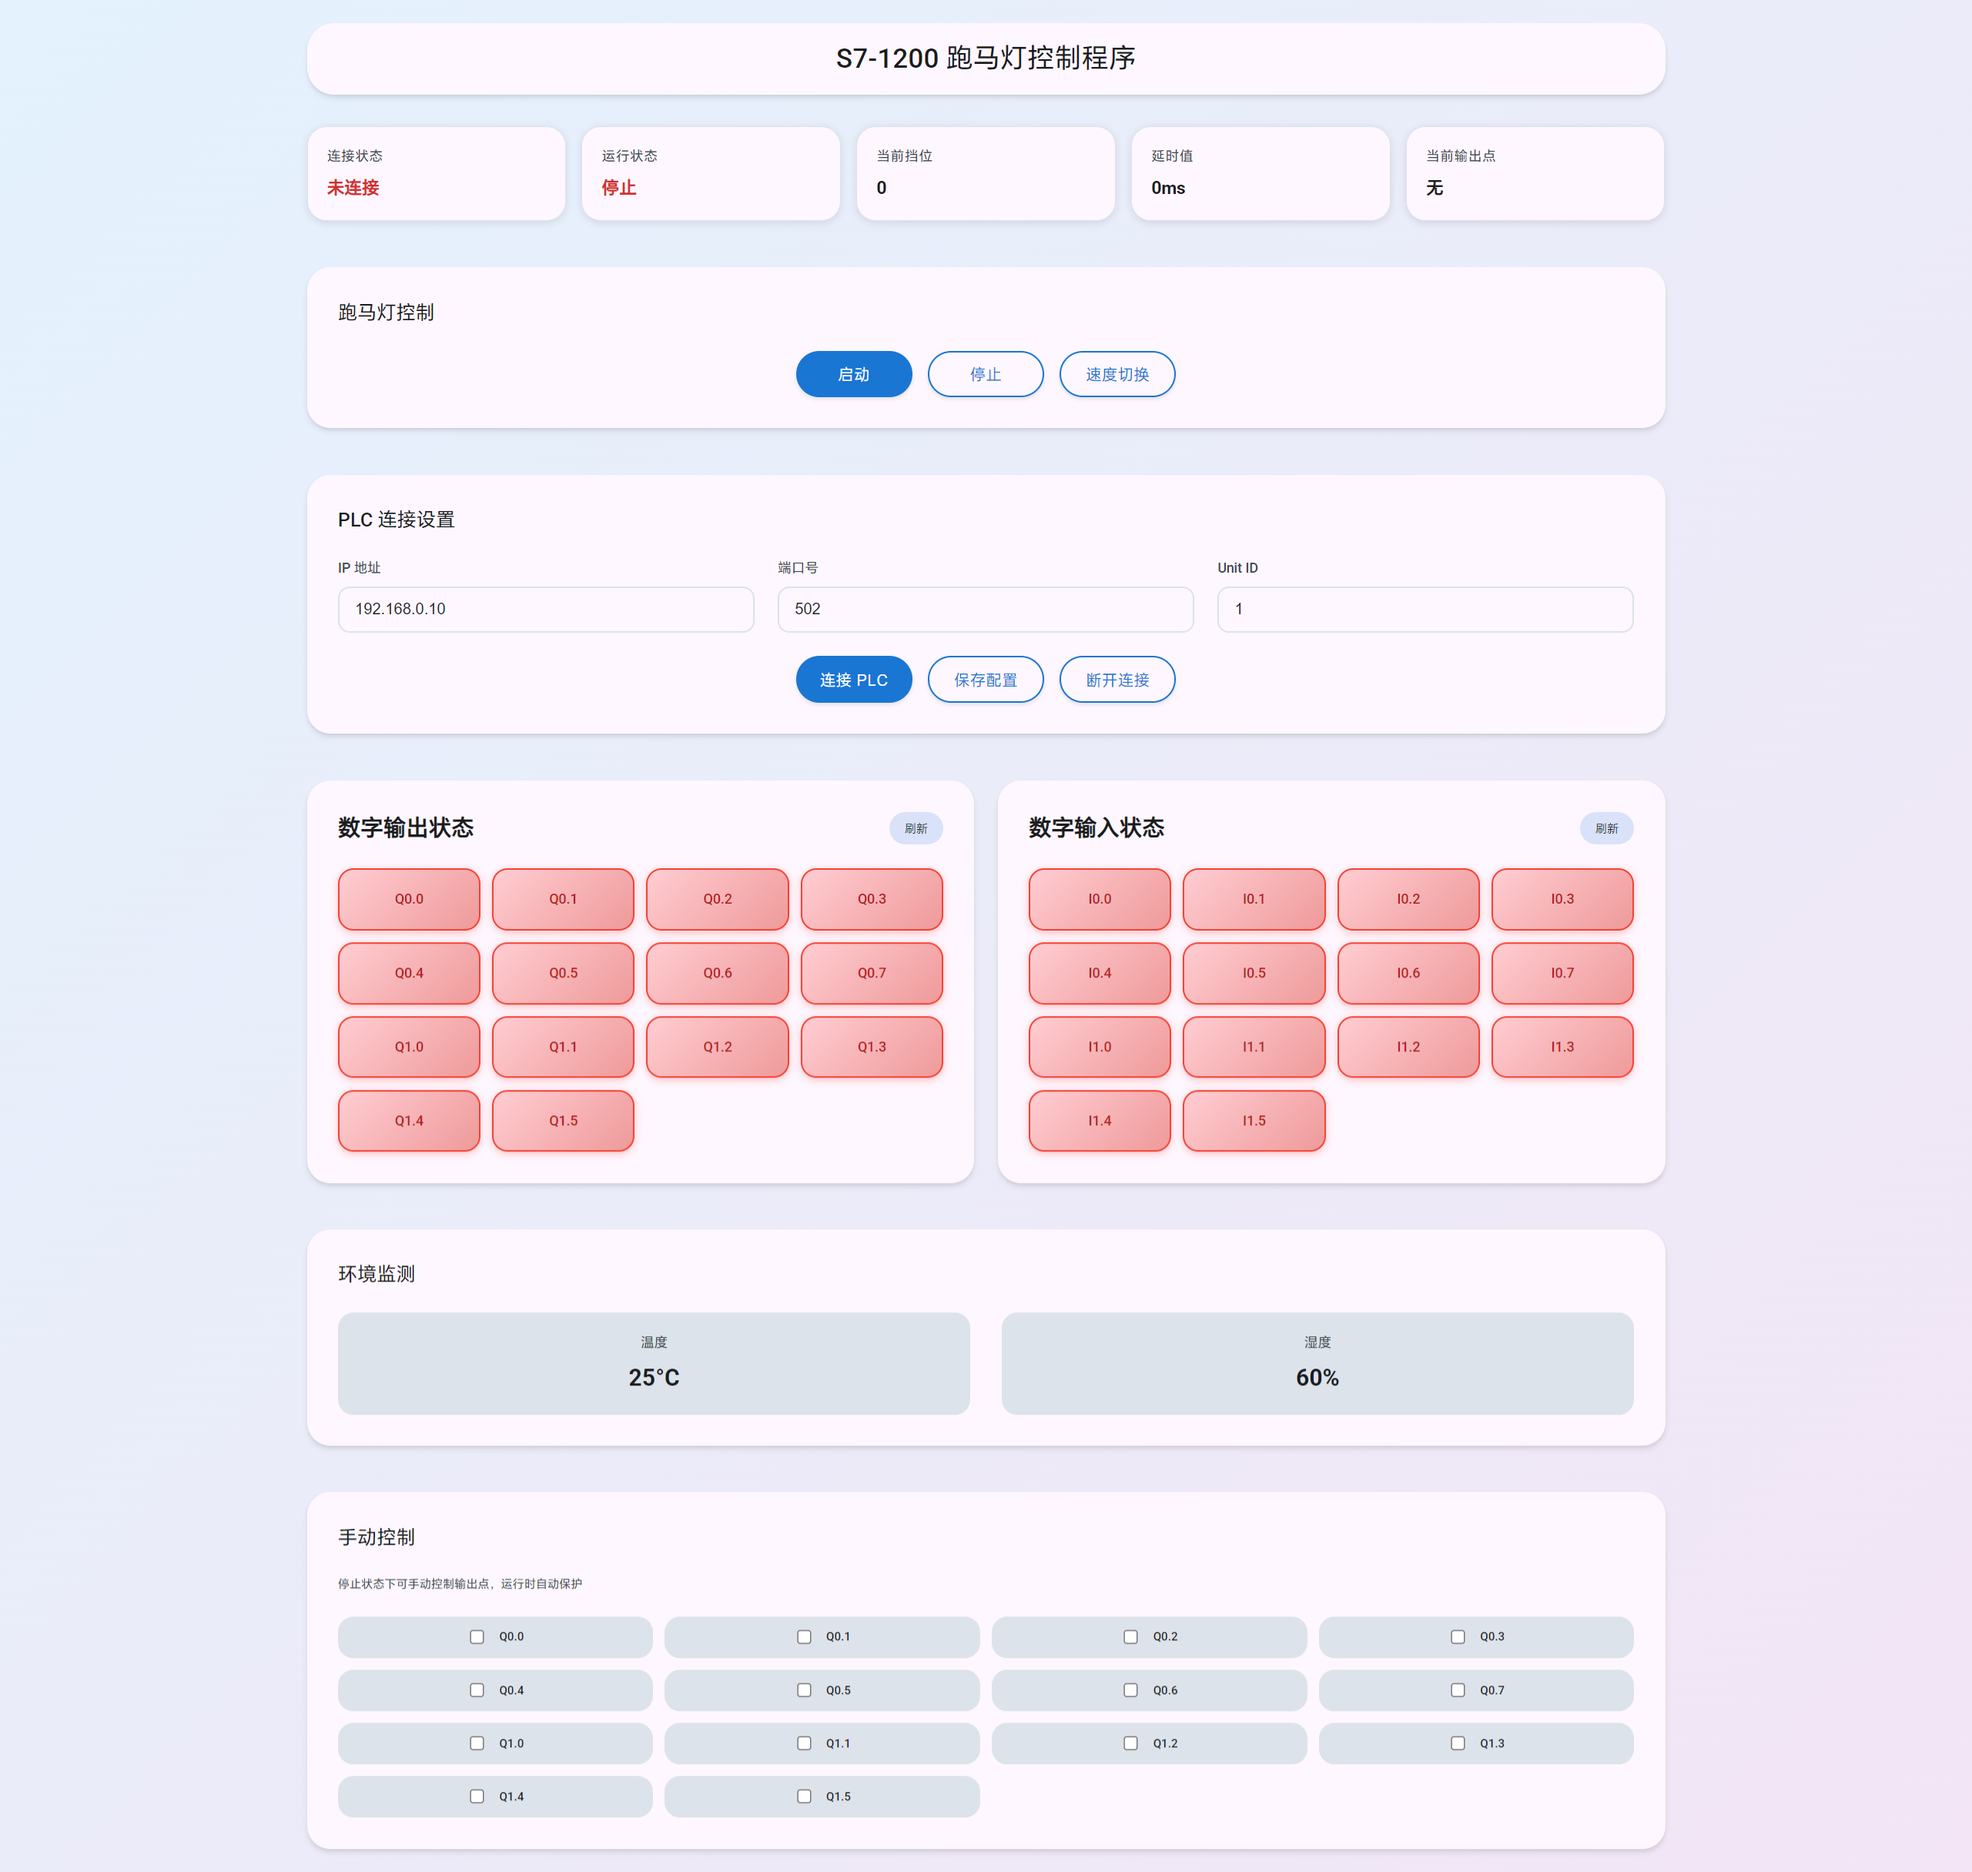
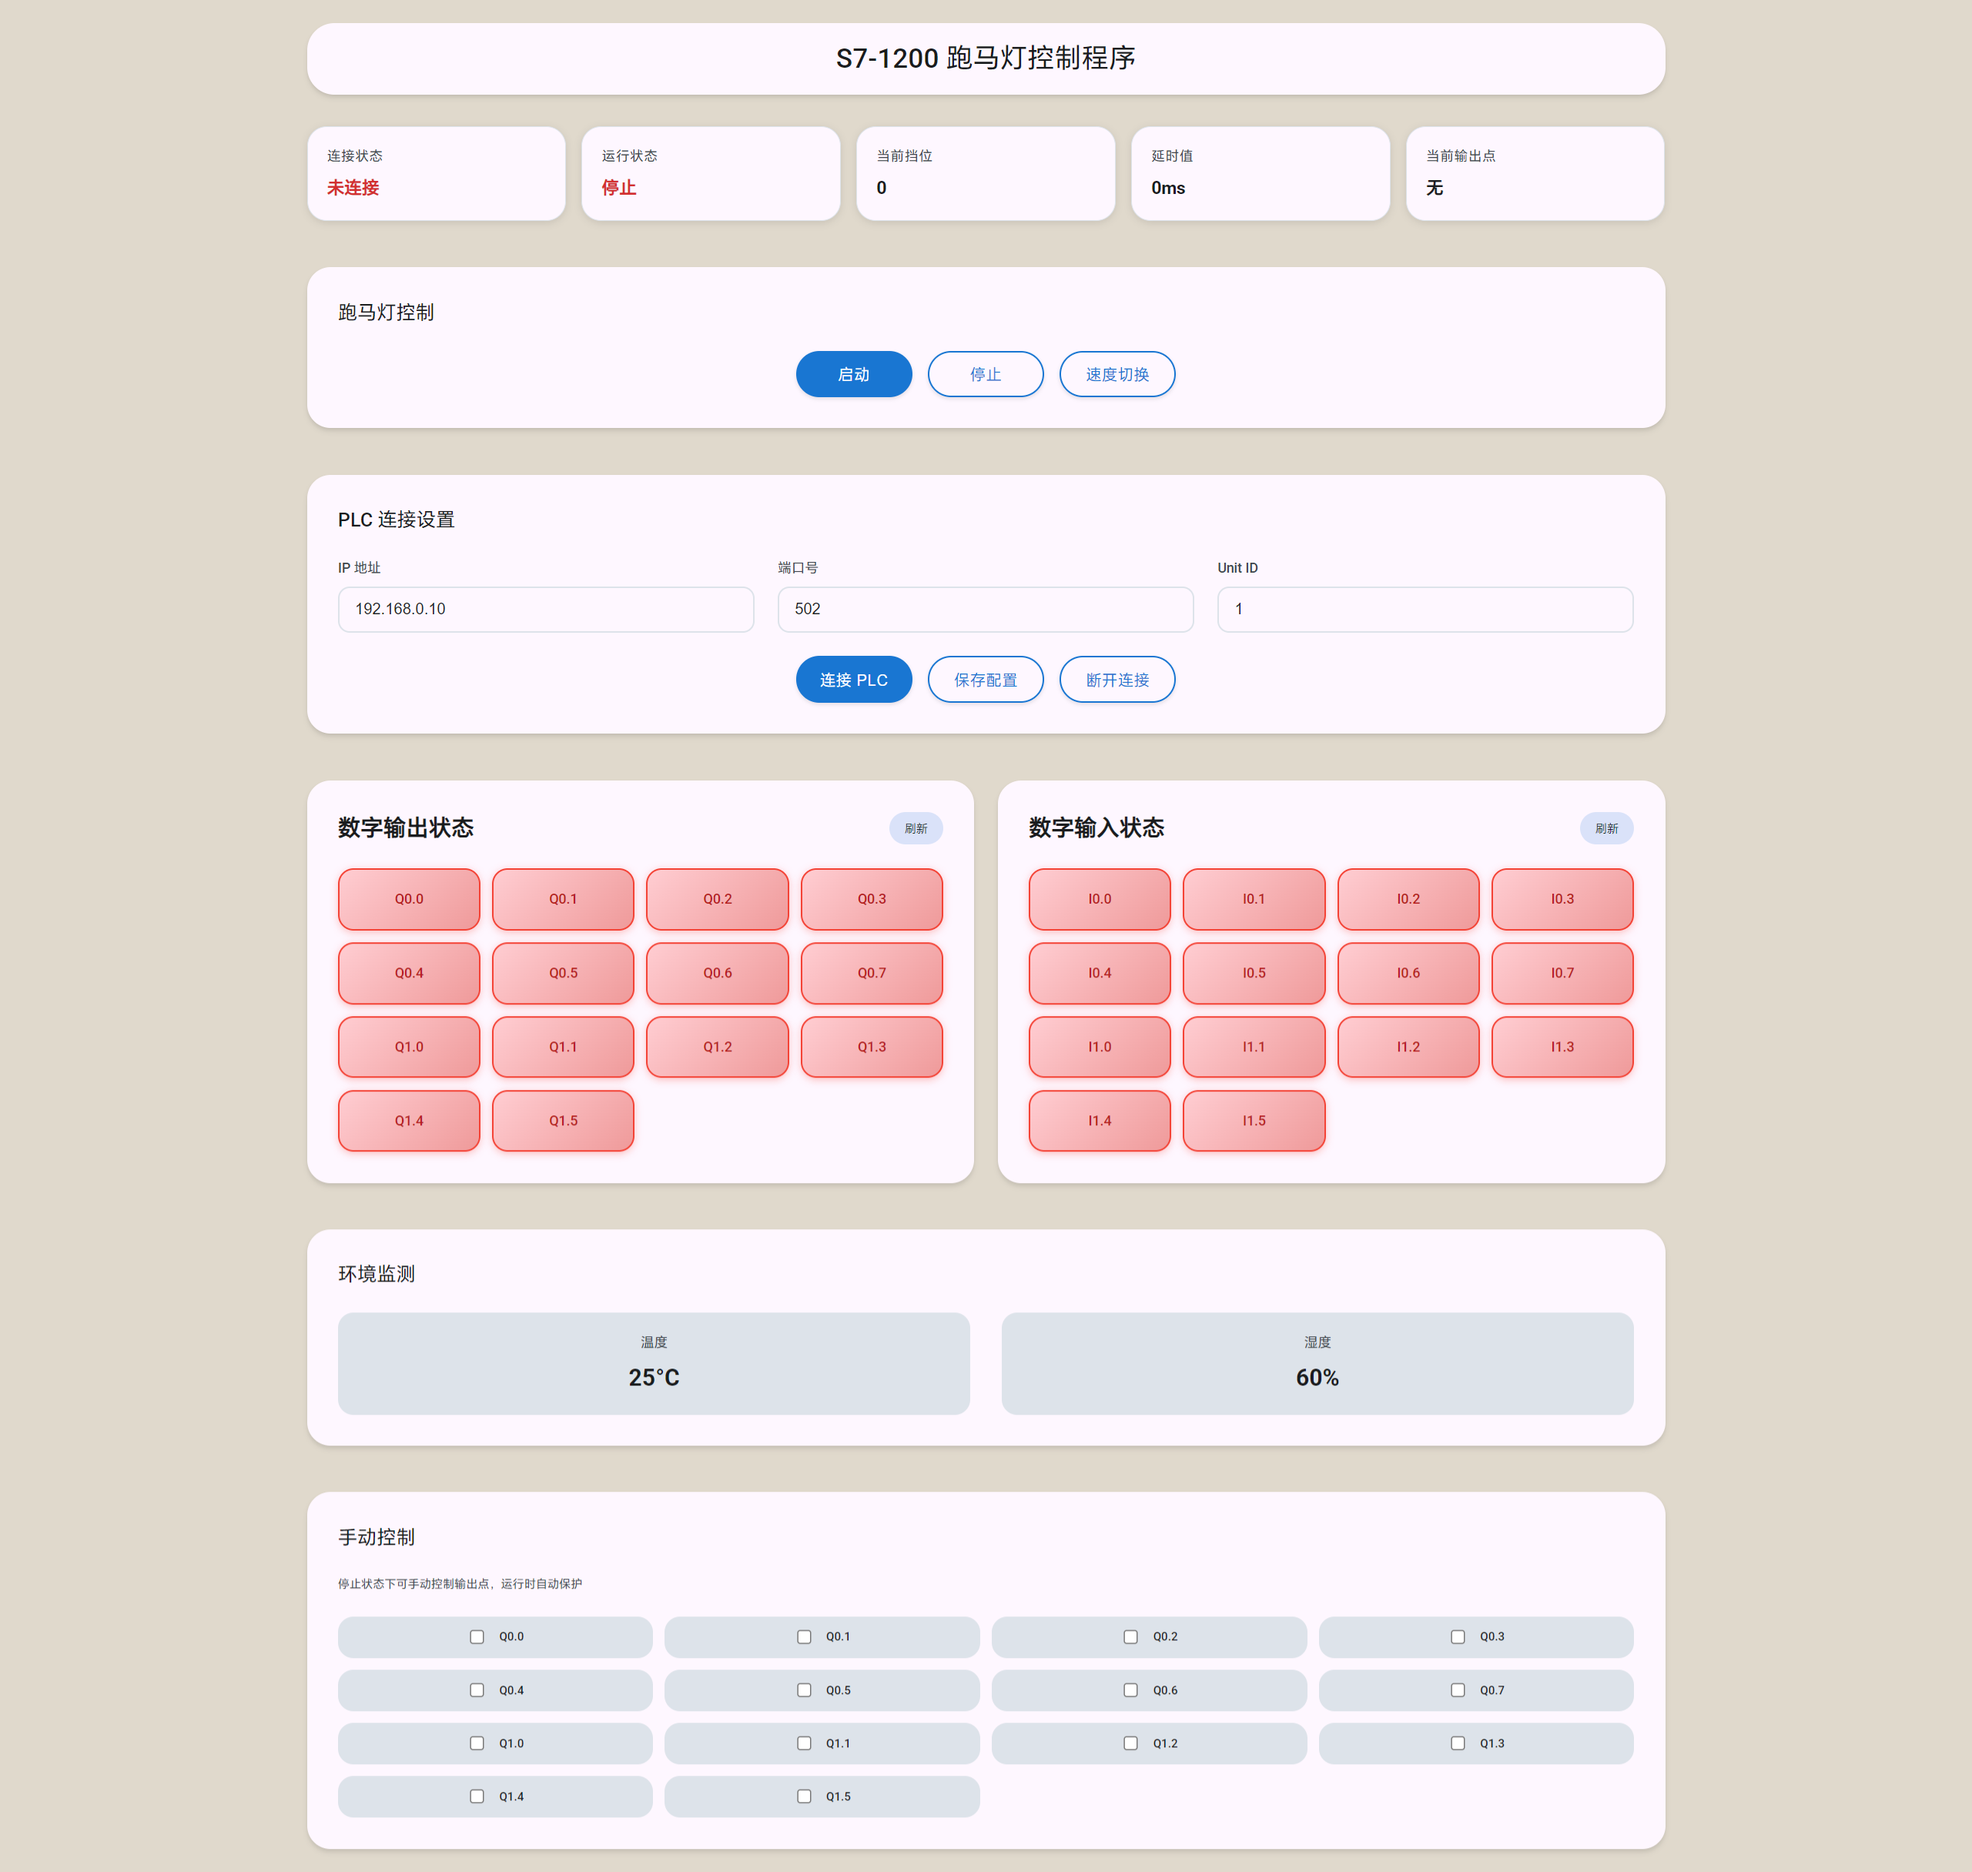
chore: 色彩调整

diff --git a/web_ui.go b/web_ui.go
@@ -117,7 +117,7 @@ func (ui *WebUI) initTemplate() {
 	            font-family: 'Roboto', -apple-system, BlinkMacSystemFont, 'Segoe UI', sans-serif;
 	            margin: 0;
 	            padding: 24px;
-	            background: linear-gradient(135deg, #e3f2fd 0%, #f3e5f5 100%);
+	            background:rgb(224, 217, 204);
 	            color: var(--md-sys-color-on-surface);
 	            line-height: 1.5;
 	        }
